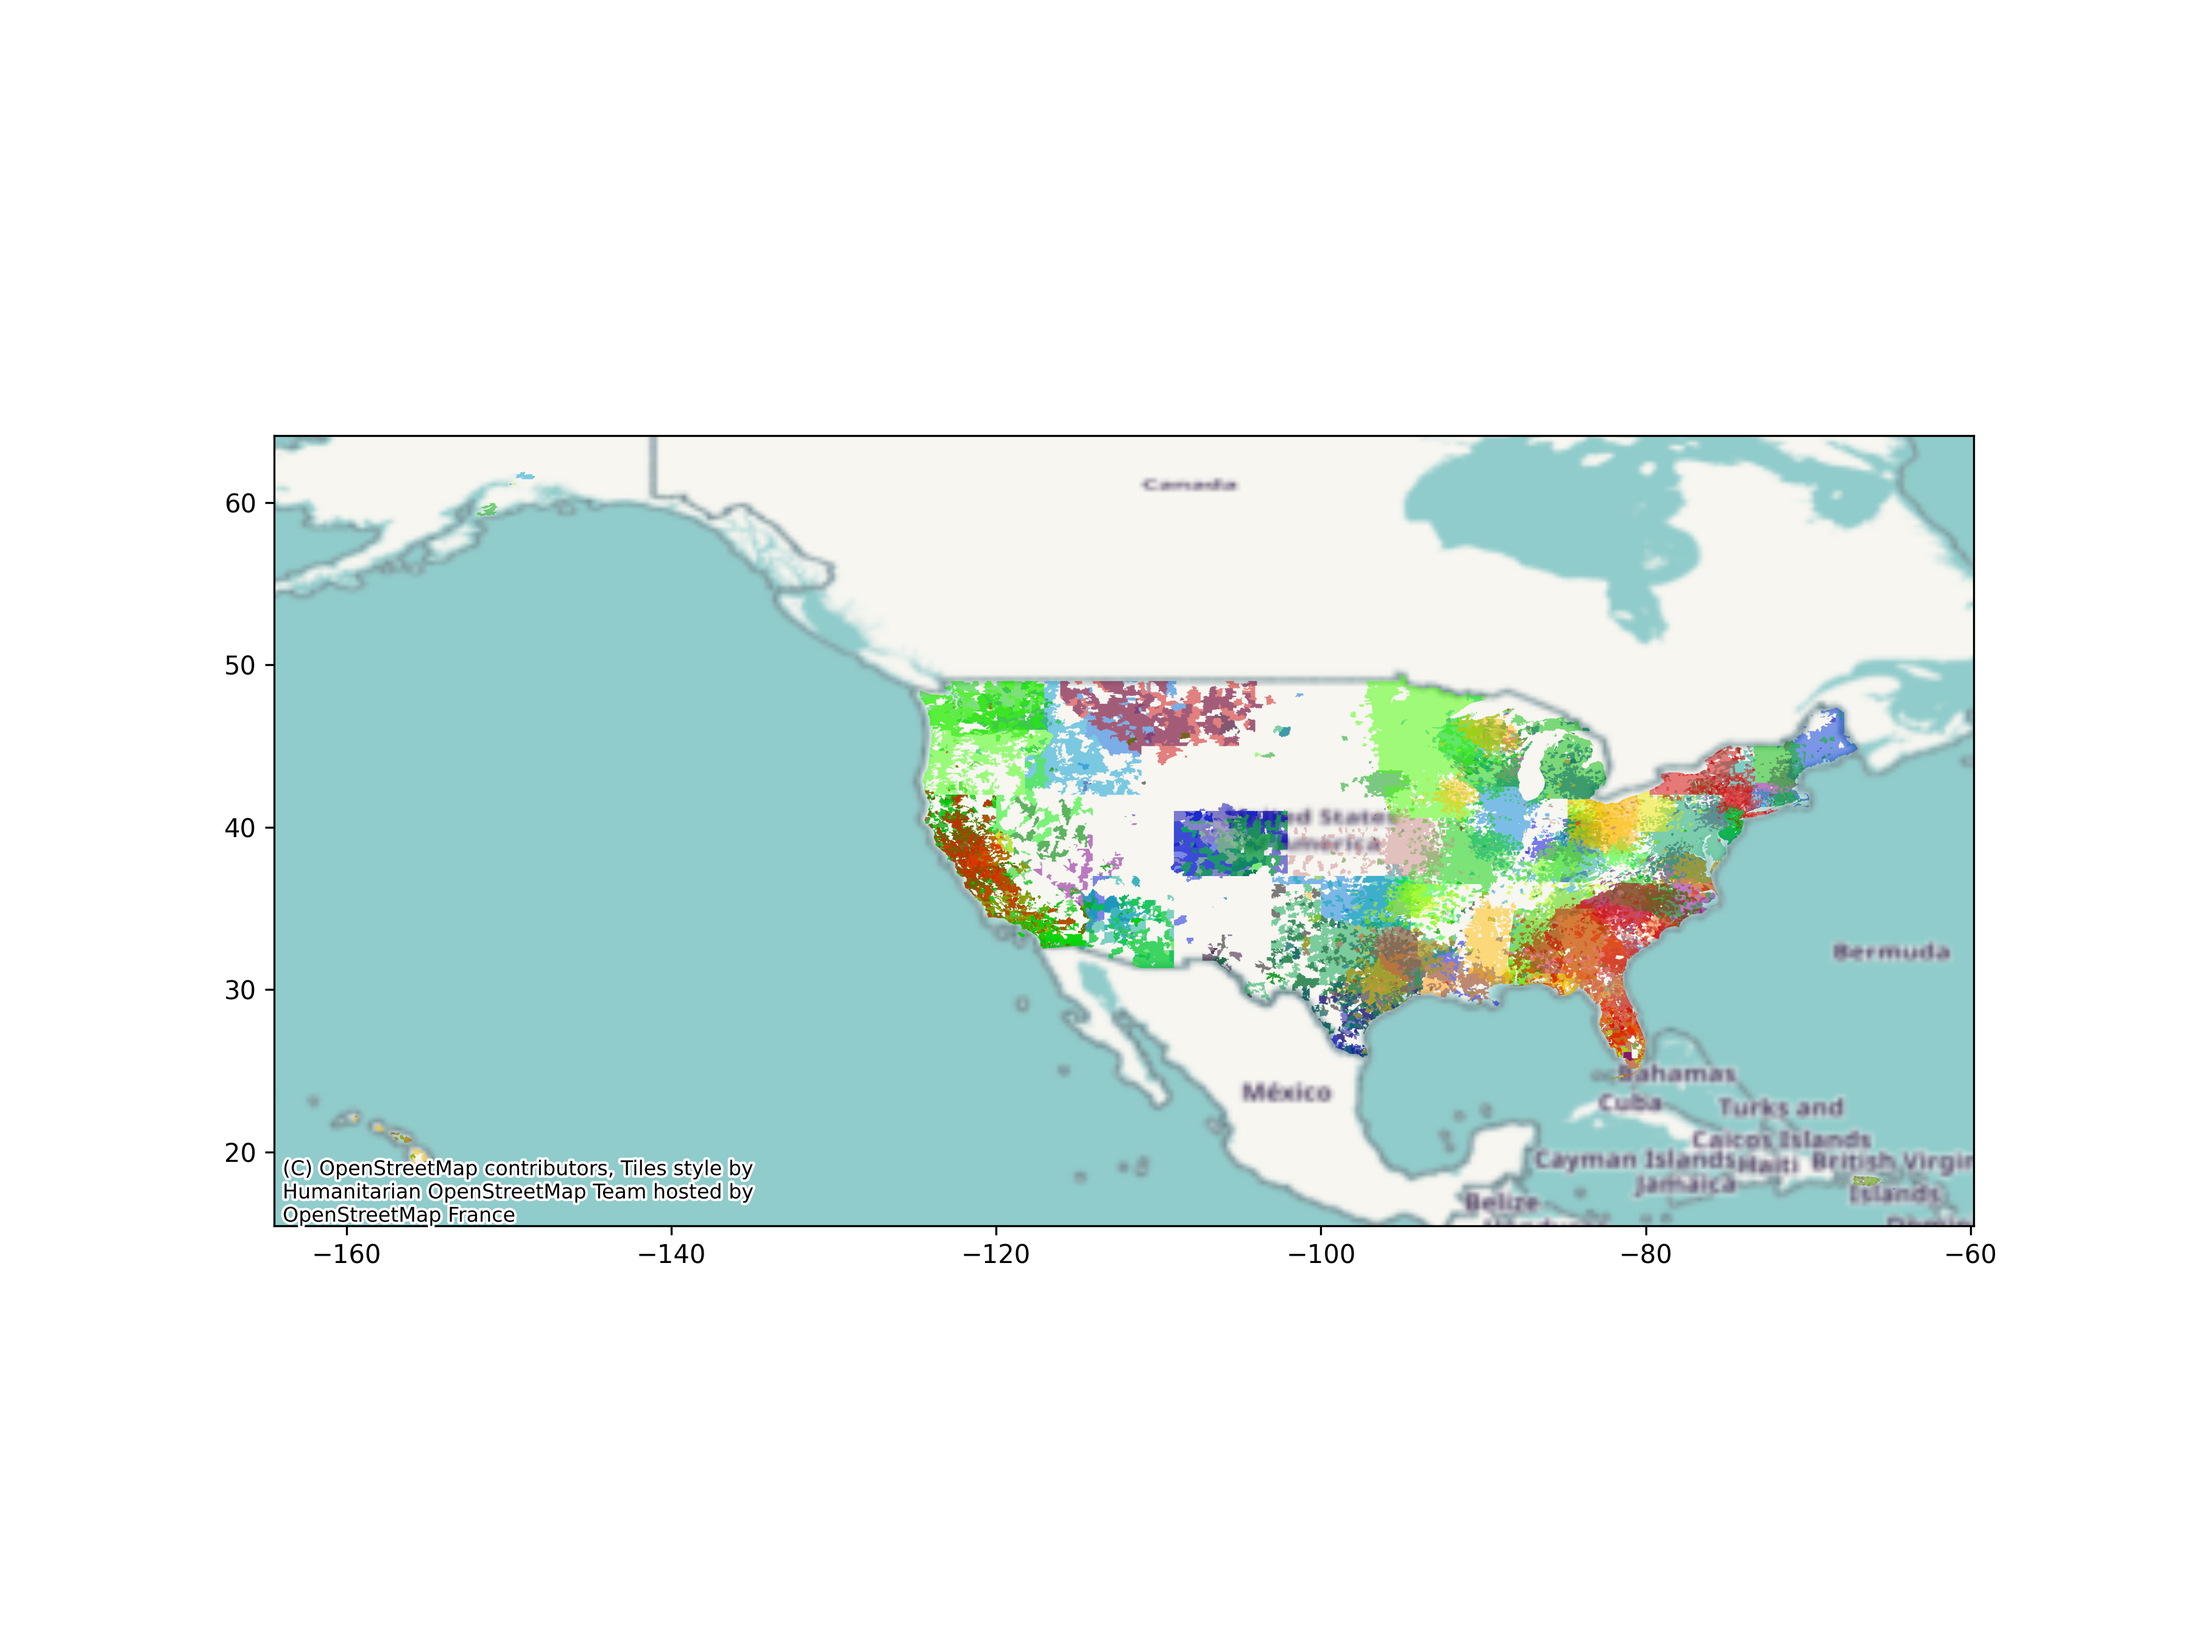
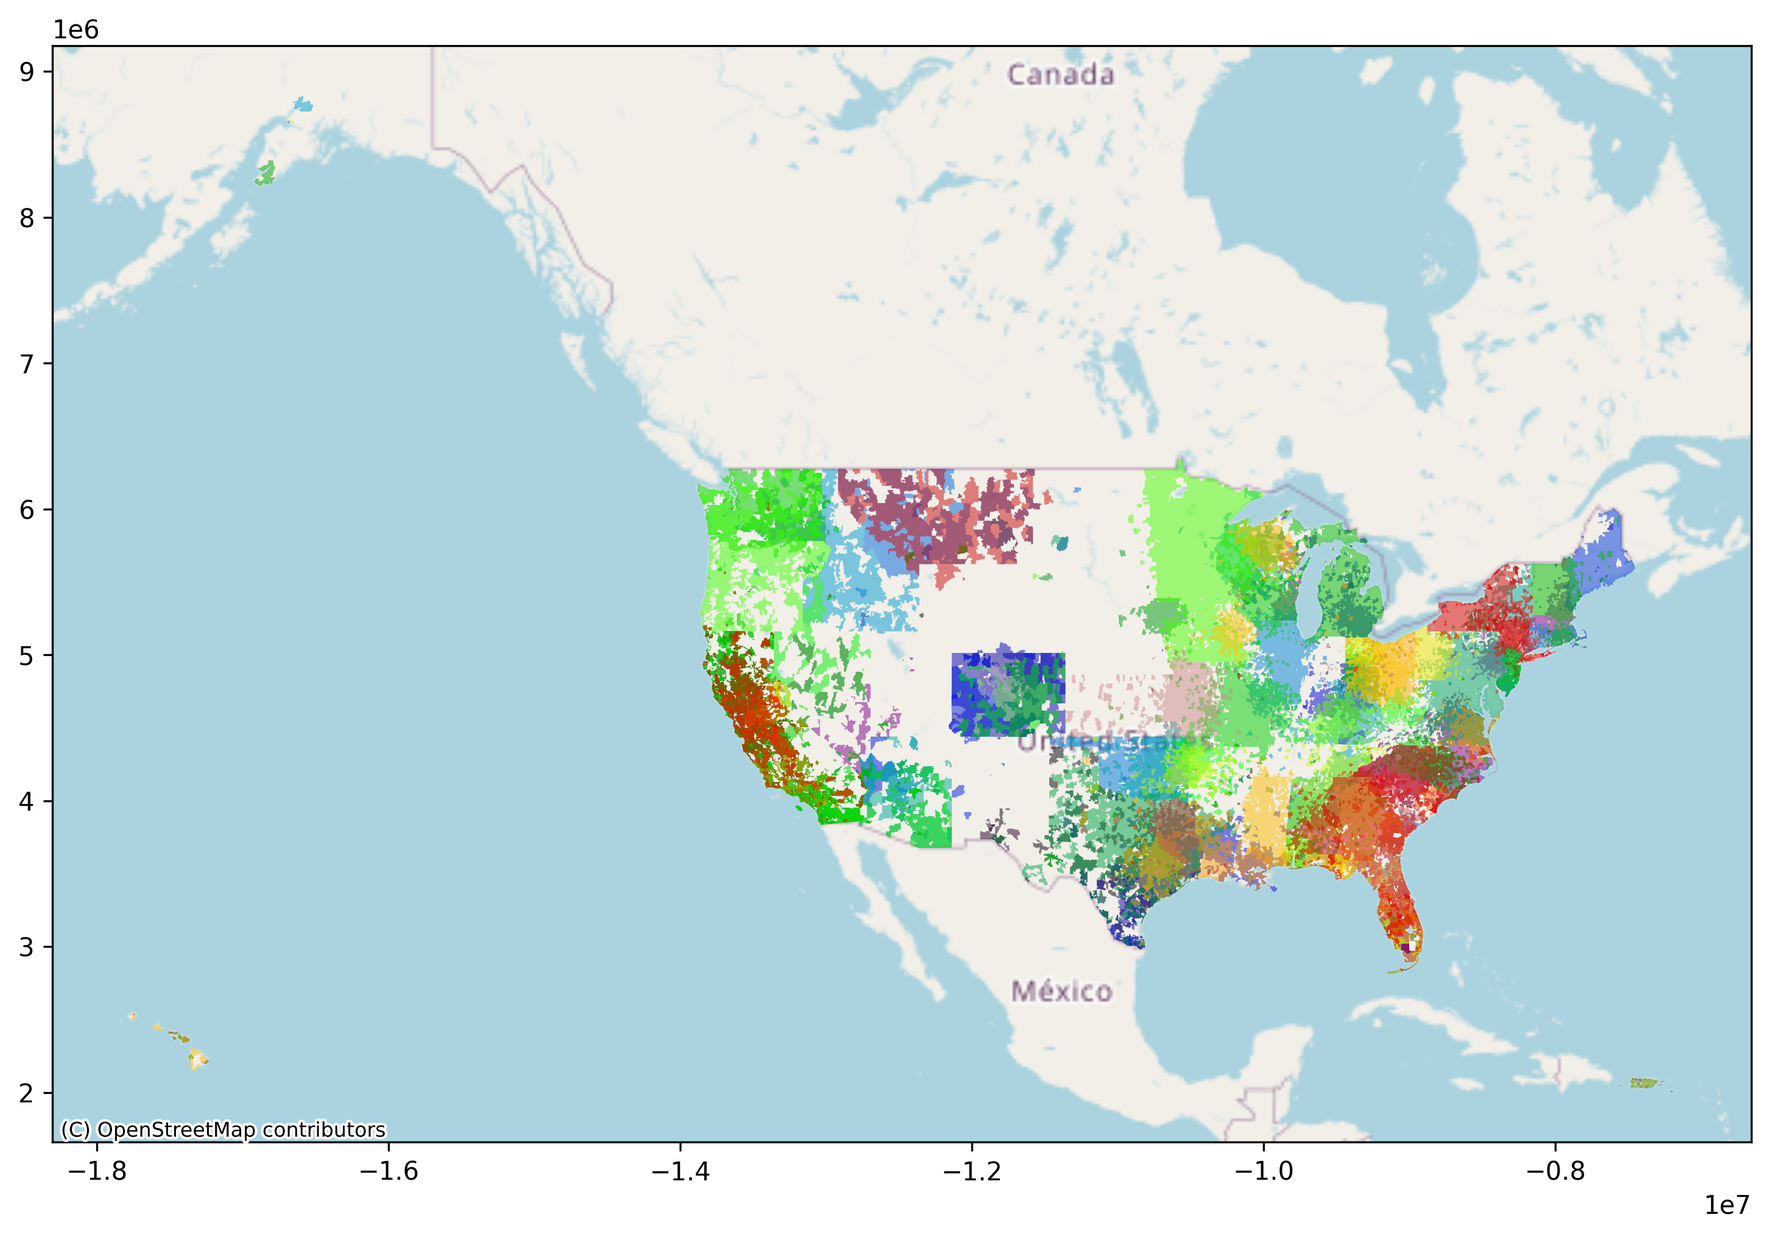
updating image generation

diff --git a/build_geopackage.py b/build_geopackage.py
@@ -119,9 +119,9 @@ def build_mls_data(buffer, tolerance, preserve):
     gdf = gpd.GeoDataFrame(df, crs=4326)
     gdf.set_index("mls_id", inplace=True)
     gdf.to_file("_data/mls_data.gpkg", driver="GPKG", index=True, layer="mls_data")
-    ax = gdf.plot(figsize=(12, 9), cmap='nipy_spectral', alpha=0.5)
-    cx.add_basemap(ax, crs=gdf.crs)
-    plt.savefig('_data/mls_data.png', dpi=300, bbox_inches='tight')
+    ax = gdf.to_crs(3857).plot(figsize=(12, 9), cmap='nipy_spectral', alpha=0.5)
+    cx.add_basemap(ax, source=cx.providers.OpenStreetMap.Mapnik)
+    plt.savefig('_data/mls_data.png', dpi=300, bbox_inches='tight', pad_inches=0.1)
 
 if __name__ == "__main__":
     cli()
